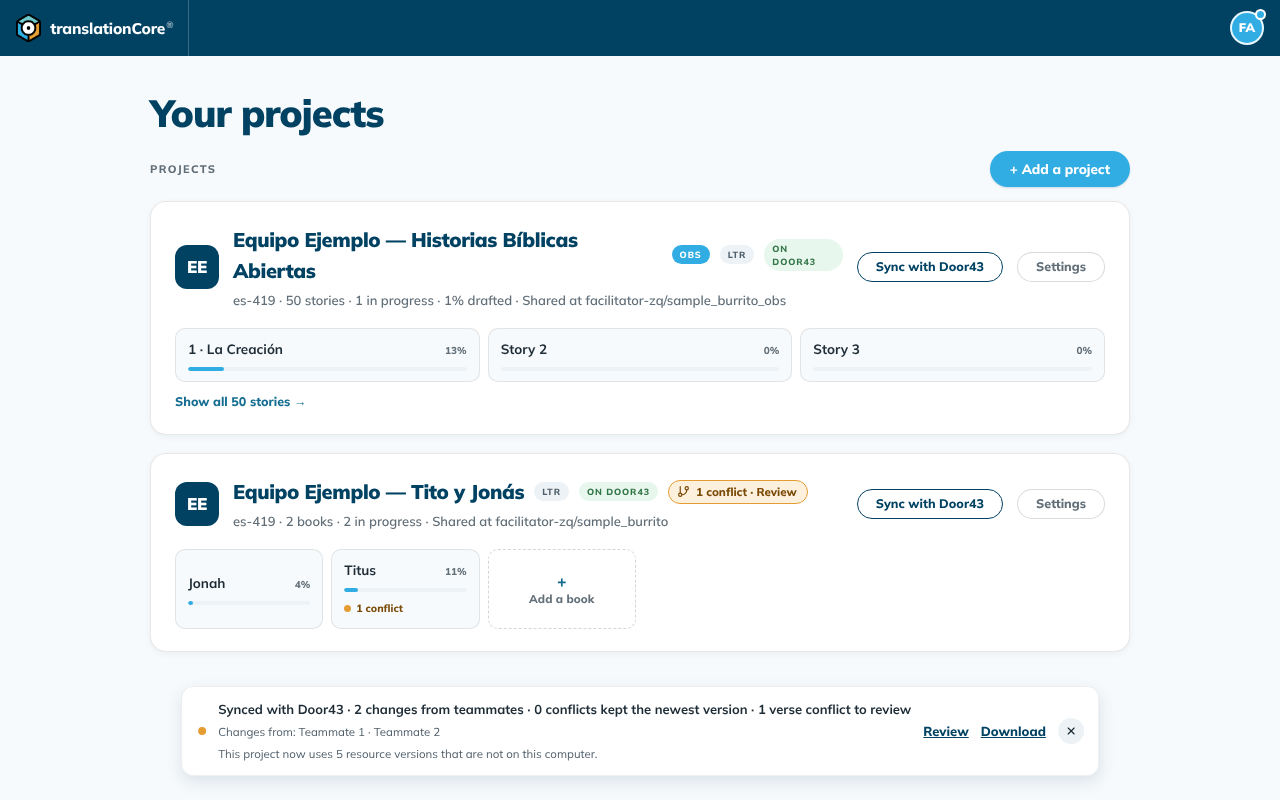
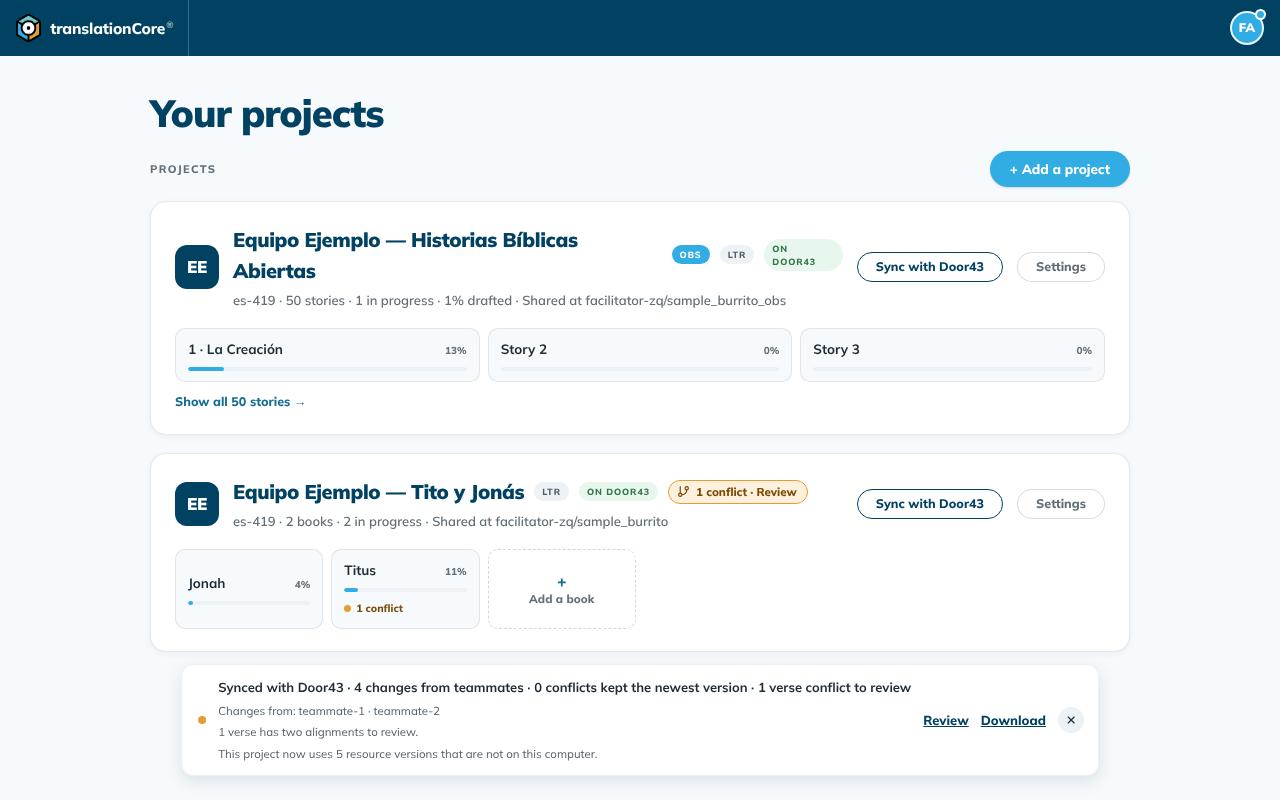
E1a step 7: the five sync screens are captured on real syncs
Unit X now leaves username records out of the received count and reports the
changes a sync sent again; the toast shows both. The captures sync with the
fake Door43 for real, into the parity user's own repository with teammates as
collaborators. Two screens differ from tC4 in ways the rebuild means, each
explained in residuals.json.

Unit: E1a

Changed region(s): [[0.1562, 0.8438, 0.8125, 0.9375]]

diff --git a/crates/tc-door43-fake/src/lib.rs b/crates/tc-door43-fake/src/lib.rs
@@ -331,6 +331,8 @@ pub(crate) struct State {
     next_id: u64,
     clock: i64,
     pub metadata_cache: HashMap<String, Option<serde_json::Value>>,
+    /// `(owner, login)`: `login` may push to `owner`'s repositories as a collaborator.
+    pub collaborators: Vec<(String, String)>,
 }
 
 /// 2026-01-01T00:00:00Z. Seeded commits are an hour apart from here, so their shas are
@@ -349,6 +351,7 @@ impl State {
             next_id: 1,
             clock: CLOCK_START,
             metadata_cache: HashMap::new(),
+            collaborators: Vec::new(),
         }
     }
 
@@ -404,6 +407,10 @@ impl State {
     /// Whether `login` may push to or create in `owner`.
     pub fn can_write(&self, login: &str, owner: &str) -> bool {
         login.eq_ignore_ascii_case(owner)
+            || self
+                .collaborators
+                .iter()
+                .any(|(o, l)| o.eq_ignore_ascii_case(owner) && l.eq_ignore_ascii_case(login))
             || self.org(owner).is_some_and(|o| {
                 o.org
                     .members
@@ -566,10 +573,15 @@ impl FakeDoor43 {
         });
     }
 
-    /// `login` joins the organization `org`, able to create and push there; `false` when there
-    /// is no such organization.
+    /// `login` joins the organization `org`, able to create and push there; when `org` is a
+    /// user, `login` may push to that user's repositories as a collaborator. `false` when there
+    /// is no such account.
     pub fn add_member(&self, org: &str, login: &str) -> bool {
         let mut state = self.shared.state();
+        if state.users.iter().any(|u| u.user.login.eq_ignore_ascii_case(org)) {
+            state.collaborators.push((org.to_owned(), login.to_owned()));
+            return true;
+        }
         let Some(rec) = state
             .orgs
             .iter_mut()
@@ -749,6 +761,18 @@ impl FakeDoor43 {
     /// The bare repository on disk.
     pub fn git_dir(&self, owner: &str, name: &str) -> PathBuf {
         self.shared.git.repo_dir(owner, name)
+    }
+
+    /// Removes a repository and its history, so the same name can be created again empty.
+    pub fn remove_repo(&self, owner: &str, name: &str) -> Result<(), FakeError> {
+        self.shared.state().repos.retain(|r| {
+            !(r.owner.eq_ignore_ascii_case(owner) && r.name.eq_ignore_ascii_case(name))
+        });
+        let dir = self.git_dir(owner, name);
+        if dir.exists() {
+            std::fs::remove_dir_all(&dir)?;
+        }
+        Ok(())
     }
 
     /// Points `branch` at `sha`, as when someone replaces it with an older copy (E1a: "Door43

diff --git a/crates/tc-app/tests/app/port_contract.rs b/crates/tc-app/tests/app/port_contract.rs
@@ -800,3 +800,50 @@ async fn the_first_sync_sends_the_username_at_once() {
         "Door43 has the name after one sync"
     );
 }
+
+/// tC4's sync-ok-restored: Door43 lost a teammate's change this computer already holds; the next
+/// sync sends it again and the toast says so, counting the change once and no username record.
+#[tokio::test(flavor = "multi_thread", worker_threads = 2)]
+async fn a_change_door43_lost_is_sent_again_and_counted_once() {
+    let w = <Door43 as SyncPortFixture>::world().await;
+    let a = &w.t.app;
+    internet_on(a).await;
+    sign_in(a).await;
+    synced(a, 70).await;
+    let b = teammate_b(&w).await;
+    let before = w.fake.resolve(PARITY_USER, REPO, "master").await.unwrap();
+    save_titus(
+        &b.t.app,
+        &b.project,
+        2,
+        71,
+        "Lo que B escribio, que Door43 perdera",
+    )
+    .await;
+    sign_in_again(&b.t.app, 73).await;
+    let job = post(
+        &b.t.app,
+        &SyncProject {
+            request: rid(74),
+            project: b.project.clone(),
+        },
+    )
+    .await
+    .unwrap();
+    assert!(matches!(ended(&b.t.app, job).await, JobState::Done(_)));
+    sign_in_again(a, 75).await;
+    let first = synced(a, 76).await;
+    assert_eq!(
+        first.received, 1,
+        "B's verse, not B's username record: {first:?}"
+    );
+    w.fake
+        .set_branch(PARITY_USER, REPO, "master", &before)
+        .await
+        .unwrap();
+    let again = synced(a, 77).await;
+    assert_eq!(
+        again.restored, 1,
+        "the lost change is sent again: {again:?}"
+    );
+}

diff --git a/crates/tc-app/src/sync.rs b/crates/tc-app/src/sync.rs
@@ -151,7 +151,7 @@ impl App {
             })?;
         let handle = lease.session().handle().clone();
         let report = handle.door43_sync(client, Some(session.clone())).await;
-        let (ended, received_by, recreated) = match report {
+        let (ended, received_by, recreated, restored) = match report {
             Some(report) => (
                 match report.ended {
                     tc_sync::machine::Ended::Synced { .. } => Ok(()),
@@ -161,11 +161,13 @@ impl App {
                 },
                 report.received_by,
                 report.recreated,
+                report.restored,
             ),
             None => (
                 Err(ApiError::Unavailable(tc_api::error::Feature::Sync)),
                 BTreeMap::new(),
                 false,
+                0,
             ),
         };
         let view = {
@@ -173,7 +175,7 @@ impl App {
             let me = session.handle().facts().device;
             let snapshot = session.read();
             let resources = &self.inner.resources;
-            let mut view = synced_view(&snapshot, me, &[], 0, &|pin| resources.has_dcs(pin));
+            let mut view = synced_view(&snapshot, me, &[], restored, &|pin| resources.has_dcs(pin));
             view.recreated = recreated;
             // Unit X counts what came in, by the person who made it (§9.7 `received`).
             view.received = received_by.values().sum();

diff --git a/crates/tc-door43-fake/src/bin/tc-door43-fake.rs b/crates/tc-door43-fake/src/bin/tc-door43-fake.rs
@@ -295,6 +295,9 @@ async fn add_user(State(fake): Fake, body: axum::body::Bytes) -> Response {
 struct RepoBody {
     owner: String,
     name: String,
+    /// Remove a repository of that name first, so it starts empty again.
+    #[serde(default)]
+    replace: bool,
 }
 
 /// An empty repository of `owner`, which a first sync fills (E1a: journeys that sync for real).
@@ -303,6 +306,11 @@ async fn add_repo(State(fake): Fake, body: axum::body::Bytes) -> Response {
         Ok(body) => body,
         Err(error) => return bad(error.to_string()),
     };
+    if body.replace
+        && let Err(error) = fake.remove_repo(&body.owner, &body.name)
+    {
+        return bad(error.to_string());
+    }
     let seed = tc_door43_fake::RepoSeed {
         owner: body.owner,
         name: body.name,

diff --git a/crates/tc-app/src/backend/store.rs b/crates/tc-app/src/backend/store.rs
@@ -1497,6 +1497,7 @@ impl ProjectHandle for StoreHandle {
                     *report.received_by.entry(person).or_default() += n;
                 }
                 report.recreated |= next.recreated;
+                report.restored += next.restored;
                 if !matches!(next.ended, tc_sync::machine::Ended::Synced { .. }) {
                     report.ended = next.ended;
                 }

diff --git a/.audit/roadmap/units/E1a.md b/.audit/roadmap/units/E1a.md
@@ -306,3 +306,4 @@ and the same with `--features gallery`, `--features app` and `--features test-ho
 - 2026-10-25 | C7a session (Claude Code 3058c665) | step 7 (part) | none | journeys can sync for real against the fake: tc4 `--real-sync` (test-hooks builds) picks `Door43Sync` over the scripted port; the fake's control port takes `POST /repos {owner, name}` (an empty repository); `test/connectDoor43 {project, owner, name, branch}` points a project at it (golden added); env-rust's `realSync` (withApp `realSync: true`) makes `pushToDoor43` create and connect the repository instead of scripting a sync. New journey `E1a. A real sync pushes the project to Door43; a cut connection fails and changes nothing` (sync-button.test.mjs). It found a real bug: `Door43Remote::parse_url` read only https, so after a sync with an http Door43 (the fake; a development server) the card said the project was not shared and its button became Share; it reads http too now. sync-button and share-open `# tests 6 # pass 6 # fail 0 # skipped 0`; tc-api (golden), tc4, the fake and tc-app's home, sync, share, contract and golden-endpoint tests pass. Left in step 7: the scripted helpers that need a teammate (`teammatesChangeOneVerse`, `teammatesJoinVerses`, `loseFromDoor43`, `door43Lacks`, `dropNextClone`) and the captures, which need step 6's second app | .enjoy-logs/e1a-journeys.log
 - 2026-10-25 | C7a session (Claude Code 3058c665) | step 6 | none | teammates for real: the fake's control port takes `POST /users {login, password, org}` (`FakeDoor43::add_member`: another user who may push in the org); env-rust's `startTeammate` is a second tc4 (own app data, empty projects folder, `--real-sync`) signed in as that user and driven through its API (`join`, `saveVerse`, `sync`, `words`); `withApp` gives a body `teammate(name)`. Shared projects live in the team org `Equipo-Ejemplo` (`DOOR43_TEAM`). Done differently from the card: no `withApps(n)` with n browsers; A is the browser, B and C are API-driven computers, which is what the convergence needs. `parity/app/journeys/team-sync.test.mjs`: `J26 [G1]` (B and C change 1:1 and 1:2 and sync; A's toast counts and names both; after one more round A, B and C hold the same two verses) and `J26 [G6]` (A and B change 1:3: one verse conflict, Review offered). Three runs in a row `# pass 1 # fail 0` for [G1], then both `# pass 2`. Proof: with C's sync left out, [G1] fails `the toast names teammate-c: ... Changes from: teammate-b`. The card's pack-drop proof was not built (the fake has no pack fault); choosing A's version stays C7a's review journeys; the check-conflict step waits for C7b (minors.tsv). sync-button and share-open still `# pass 6` | .enjoy-logs/team.log
 - 2026-10-25 | C7a session (Claude Code 3058c665) | note | none | step 7 in progress. Real Door43 steps for `realSync` envs: `dropNextClone` (a `breakOff` on the next reference read), `door43Lacks` (nothing: the fake has no such repository), `teammatesChangeOneVerse` (A's project pushed once through the API, then signed out with the internet off so a capture still asks; two teammates open it, both change 1:1 from the same version, then each syncs), `loseFromDoor43` (the fake's branch moved back to before that teammate's push: control `POST /branch`, `FakeDoor43::set_branch`); a reset starts a fresh repository name (`env.door43Repo`). `capture-rust.mjs --real-sync`. All five screens capture on real syncs (`5 screens captured, 0 failed`) and are labelled E1a/store, but the report shows differences to fix or explain first, so the captures are not committed: (1) `6 changes from teammates` for two verses: X's `received_by` counts each teammate's DeviceProfile (username) record too; (2) the restored note never shows: X's report has no count of changes sent again, and the app passes 0; (3) `1 verse has two alignments to review` appears where tC4 shows none; (4) teammates named by username (Q7, intended, a residual to write); (5) the repository reads `Equipo-Ejemplo/sample_burrito-N` against tC4's `facilitator-zq/sample_burrito` (test setup: needs a collaborator in the fake or the parity user's own repository per reset). sync-button, share-open and team-sync `# tests 8 # pass 8` | .enjoy-logs/capture-e1a2.log
+- 2026-10-25 | C7a session (Claude Code 3058c665) | step 7 | none | X's tip 654c5a0b merged: `received_by` leaves DeviceProfile out, and `SyncReport.restored` is wired into the toast like `recreated` (`a_change_door43_lost_is_sent_again_and_counted_once`; with the toast passed 0 it fails `restored: 0`). The captures' repository is now the parity user's own, named as the project (`facilitator-zq/sample_burrito`), replaced at each reset (fake `POST /repos {replace}`, `remove_repo`), with teammates pushing as collaborators (`add_member` on a user). The five screens are recaptured on real syncs (`5 screens captured, 0 failed`), all `('E1a', 'store')`; sync-failed and sync-ok match tC4 in DOM and meaning; sync-ok-teammates and sync-ok-restored differ in DOM and meaning, explained in residuals.json: a teammate's text change also rewrites the verse's alignment (twice tC4's counts), the two alignments are named (#791), teammates by username (Q7). E1a added to units.json. `screen_record` passes (48). `grep scriptSync parity/app/env-rust.mjs` still prints: the scripted steps stay for environments without `realSync` (conflict-review, guided-fix and the other journeys still script); moving those is left | cargo test -p tc-ui --test screen_record
